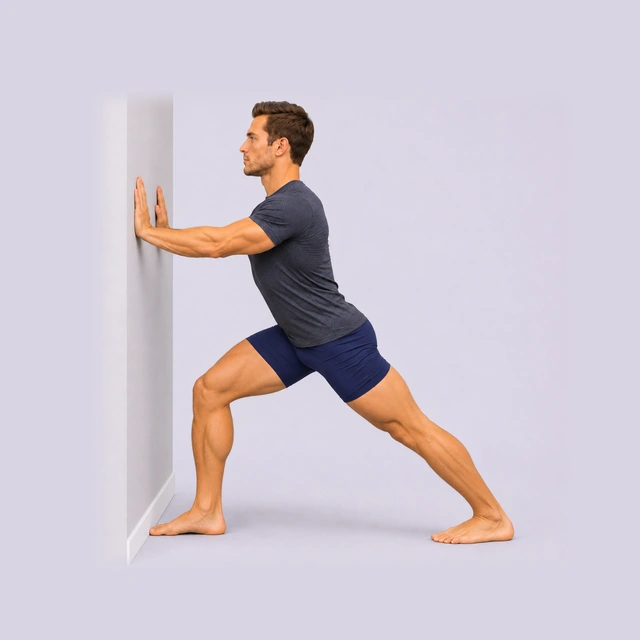
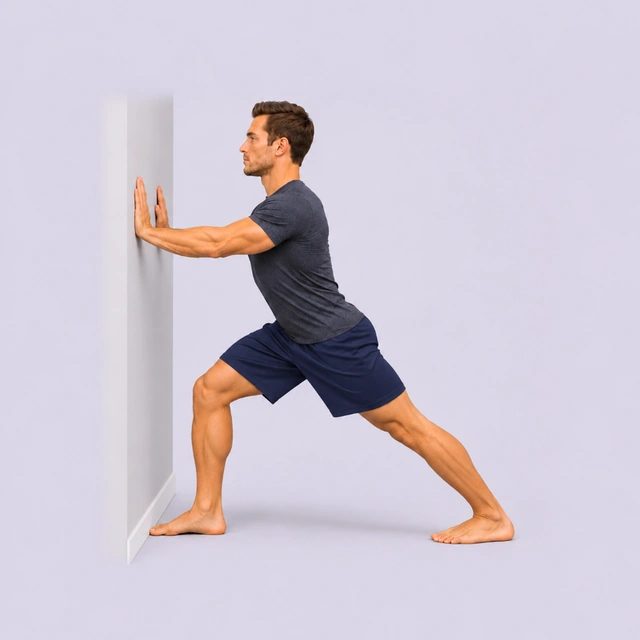
Publish: the man's longer shorts, batch 3 (10 pictures) (5315845ee30a)
Source: meflex-source branch man-shorts-3.

Claude-Session: https://claude.ai/code/session_01VNuq4d9RwdVpz2hhqNG4nu

Changed region(s): [[0.3438, 0.4688, 0.6562, 0.6562], [0.3438, 0.6562, 0.375, 0.6875]]

diff --git a/meflex-site/meflex-site/sw.js b/meflex-site/meflex-site/sw.js
@@ -5,7 +5,7 @@
 // those go to the network exactly as without it. It sends nothing of its own except fetching FILES from the site.
 // It never stores personal data: history, routines, settings and answers live in the page's own storage, not here.
 // A new version waits until the person taps Reload ("A new version is ready"); it never takes over by itself.
-const VERSION = '3eb056d1ebda';
+const VERSION = '5315845ee30a';
 const FILES = ["index.html", "manifest.webmanifest", "apple-touch-icon.png", "icon-192.png", "icon-512.png"];
 // Nov 15 (recorded voice on the website): every recording the page may ask for (voice/manifest.json and voice/<key>.m4a).
 // None is fetched at install (4.2 MB). Each is kept the first time the page fetches it: the list when the Voice or coach
@@ -15,7 +15,7 @@ const VOICE = ["voice/manifest.json", "voice/001278fc.m4a", "voice/0012bbdf.m4a"
 // fetched at install (that could be many megabytes). Each one is kept the first time the page shows it, and the page
 // asks for a routine's player pictures when that routine is opened, so a routine started with a signal still has them
 // with none. They live in their own cache, which survives app updates; only pictures no longer listed are removed.
-const PICS = ["figures/ankledf-192.webp?v=a8f33b0e", "figures/ankledf-640.webp?v=a8f33b0e", "figures/ankledf-960.webp?v=a8f33b0e", "figures/anklerock-192.webp?v=911c5049", "figures/anklerock-640.webp?v=911c5049", "figures/anklerock-960.webp?v=911c5049", "figures/armcircles-192.webp?v=41b57d91", "figures/armcircles-640.webp?v=41b57d91", "figures/armcircles-960.webp?v=41b57d91", "figures/bandadd-192.webp?v=7cb4ad47", "figures/bandadd-640.webp?v=7cb4ad47", "figures/bandadd-960.webp?v=7cb4ad47", "figures/bandcalf-192.webp?v=a96d5053", "figures/bandcalf-640.webp?v=a96d5053", "figures/bandcalf-960.webp?v=a96d5053", "figures/bandchest-192.webp?v=093ec867", "figures/bandchest-640.webp?v=093ec867", "figures/bandchest-960.webp?v=093ec867", "figures/bandcross-192.webp?v=690bf78d", "figures/bandcross-640.webp?v=690bf78d", "figures/bandcross-960.webp?v=690bf78d", "figures/bandham-192.webp?v=cc7fd8df", "figures/bandham-640.webp?v=cc7fd8df", "figures/bandham-960.webp?v=cc7fd8df", "figures/bandlat-192.webp?v=af0c8982", "figures/bandlat-640.webp?v=af0c8982", "figures/bandlat-960.webp?v=af0c8982", "figures/bandquad-192.webp?v=407bae69", "figures/bandquad-640.webp?v=407bae69", "figures/bandquad-960.webp?v=407bae69", "figures/butterfly-192.webp?v=62cdc0e5", "figures/butterfly-640.webp?v=62cdc0e5", "figures/butterfly-960.webp?v=62cdc0e5", "figures/buttkicks-192.webp?v=a66d1809", "figures/buttkicks-640.webp?v=a66d1809", "figures/buttkicks-960.webp?v=a66d1809", "figures/calf-192.webp?v=0a14d5c0", "figures/calf-640.webp?v=0a14d5c0", "figures/calf-960.webp?v=0a14d5c0", "figures/calfdrop-192.webp?v=97c87646", "figures/calfdrop-640.webp?v=97c87646", "figures/calfdrop-960.webp?v=97c87646", "figures/catcow-192.webp?v=0cbc84a2", "figures/catcow-640.webp?v=0cbc84a2", "figures/catcow-960.webp?v=0cbc84a2", "figures/chairfig4-192.webp?v=3156b617", "figures/chairfig4-640.webp?v=3156b617", "figures/chairfig4-960.webp?v=3156b617", "figures/chairham-192.webp?v=79f2fa67", "figures/chairham-640.webp?v=79f2fa67", "figures/chairham-960.webp?v=79f2fa67", "figures/chestclasp-192.webp?v=1909fb8b", "figures/chestclasp-640.webp?v=1909fb8b", "figures/chestclasp-960.webp?v=1909fb8b", "figures/child-192.webp?v=e30eb409", "figures/child-640.webp?v=e30eb409", "figures/child-960.webp?v=e30eb409", "figures/chintuck-192.webp?v=a55b103f", "figures/chintuck-640.webp?v=a55b103f", "figures/chintuck-960.webp?v=a55b103f", "figures/cobra-192.webp?v=3b105fed", "figures/cobra-640.webp?v=3b105fed", "figures/cobra-960.webp?v=3b105fed", "figures/cossack-192.webp?v=6175a924", "figures/cossack-640.webp?v=6175a924", "figures/cossack-960.webp?v=6175a924", "figures/couch-192.webp?v=a2b1502e", "figures/couch-640.webp?v=a2b1502e", "figures/couch-960.webp?v=a2b1502e", "figures/crossbody-192.webp?v=5f496ae8", "figures/crossbody-640.webp?v=5f496ae8", "figures/crossbody-960.webp?v=5f496ae8", "figures/dbfly-192.webp?v=10563170", "figures/dbfly-640.webp?v=10563170", "figures/dbfly-960.webp?v=10563170", "figures/doorway-192.webp?v=d289783c", "figures/doorway-640.webp?v=d289783c", "figures/doorway-960.webp?v=d289783c", "figures/downdog-192.webp?v=3109fa5a", "figures/downdog-640.webp?v=3109fa5a", "figures/downdog-960.webp?v=3109fa5a", "figures/figure4-192.webp?v=75c67c42", "figures/figure4-640.webp?v=75c67c42", "figures/figure4-960.webp?v=75c67c42", "figures/fold-192.webp?v=9a4d92d0", "figures/fold-640.webp?v=9a4d92d0", "figures/fold-960.webp?v=9a4d92d0", "figures/frog-192.webp?v=d23de5f0", "figures/frog-640.webp?v=d23de5f0", "figures/frog-960.webp?v=d23de5f0", "figures/gate-192.webp?v=face0345", "figures/gate-640.webp?v=face0345", "figures/gate-960.webp?v=face0345", "figures/goblet-192.webp?v=47dedac9", "figures/goblet-640.webp?v=47dedac9", "figures/goblet-960.webp?v=47dedac9", "figures/groinhold-192.webp?v=619f54f8", "figures/groinhold-640.webp?v=619f54f8", "figures/groinhold-960.webp?v=619f54f8", "figures/halfsplit-192.webp?v=f27b0572", "figures/halfsplit-640.webp?v=f27b0572", "figures/halfsplit-960.webp?v=f27b0572", "figures/happybaby-192.webp?v=d1ab1006", "figures/happybaby-640.webp?v=d1ab1006", "figures/happybaby-960.webp?v=d1ab1006", "figures/highknees-192.webp?v=dab2adce", "figures/highknees-640.webp?v=dab2adce", "figures/highknees-960.webp?v=dab2adce", "figures/hiplunge-192.webp?v=2f89a04e", "figures/hiplunge-640.webp?v=2f89a04e", "figures/hiplunge-960.webp?v=2f89a04e", "figures/inchworm-192.webp?v=74f7527c", "figures/inchworm-640.webp?v=74f7527c", "figures/inchworm-960.webp?v=74f7527c", "figures/kneeschest-192.webp?v=b5d6dc38", "figures/kneeschest-640.webp?v=b5d6dc38", "figures/kneeschest-960.webp?v=b5d6dc38", "figures/lateral-192.webp?v=25f04159", "figures/lateral-640.webp?v=25f04159", "figures/lateral-960.webp?v=25f04159", "figures/legswing-192.webp?v=d141c625", "figures/legswing-640.webp?v=d141c625", "figures/legswing-960.webp?v=d141c625", "figures/levator-192.webp?v=8760091f", "figures/levator-640.webp?v=8760091f", "figures/levator-960.webp?v=8760091f", "figures/lizard-192.webp?v=0a4f97bd", "figures/lizard-640.webp?v=0a4f97bd", "figures/lizard-960.webp?v=0a4f97bd", "figures/lunge-192.webp?v=25293428", "figures/lunge-640.webp?v=25293428", "figures/lunge-960.webp?v=25293428", "figures/lyingham-192.webp?v=1cb729bc", "figures/lyingham-640.webp?v=1cb729bc", "figures/lyingham-960.webp?v=1cb729bc", "figures/necktilt-192.webp?v=6dc8f687", "figures/necktilt-640.webp?v=6dc8f687", "figures/necktilt-960.webp?v=6dc8f687", "figures/neckturn-192.webp?v=50a8b26d", "figures/neckturn-640.webp?v=50a8b26d", "figures/neckturn-960.webp?v=50a8b26d", "figures/passthrough-192.webp?v=ed8b9ed1", "figures/passthrough-640.webp?v=ed8b9ed1", "figures/passthrough-960.webp?v=ed8b9ed1", "figures/pigeon-192.webp?v=5b82af3b", "figures/pigeon-640.webp?v=5b82af3b", "figures/pigeon-960.webp?v=5b82af3b", "figures/postwall-192.webp?v=fb964c95", "figures/postwall-640.webp?v=fb964c95", "figures/postwall-960.webp?v=fb964c95", "figures/pullover-192.webp?v=e8820e95", "figures/pullover-640.webp?v=e8820e95", "figures/pullover-960.webp?v=e8820e95", "figures/puppy-192.webp?v=8e5dd34e", "figures/puppy-640.webp?v=8e5dd34e", "figures/puppy-960.webp?v=8e5dd34e", "figures/quad-192.webp?v=6250f0f8", "figures/quad-640.webp?v=6250f0f8", "figures/quad-960.webp?v=6250f0f8", "figures/rdlhold-192.webp?v=147b3bbf", "figures/rdlhold-640.webp?v=147b3bbf", "figures/rdlhold-960.webp?v=147b3bbf", "figures/seatedtwist-192.webp?v=c94f4c98", "figures/seatedtwist-640.webp?v=c94f4c98", "figures/seatedtwist-960.webp?v=c94f4c98", "figures/sidebend-192.webp?v=610313c9", "figures/sidebend-640.webp?v=610313c9", "figures/sidebend-960.webp?v=610313c9", "figures/sidequad-192.webp?v=c3d587b5", "figures/sidequad-640.webp?v=c3d587b5", "figures/sidequad-960.webp?v=c3d587b5", "figures/sideswing-192.webp?v=1ba9e48b", "figures/sideswing-640.webp?v=1ba9e48b", "figures/sideswing-960.webp?v=1ba9e48b", "figures/skatestance-192.webp?v=3e680fa9", "figures/skatestance-640.webp?v=3e680fa9", "figures/skatestance-960.webp?v=3e680fa9", "figures/sphinx-192.webp?v=8349a4d2", "figures/sphinx-640.webp?v=8349a4d2", "figures/sphinx-960.webp?v=8349a4d2", "figures/standfold-192.webp?v=d3455a11", "figures/standfold-640.webp?v=d3455a11", "figures/standfold-960.webp?v=d3455a11", "figures/suitcase-192.webp?v=faeb34cb", "figures/suitcase-640.webp?v=faeb34cb", "figures/suitcase-960.webp?v=faeb34cb", "figures/thread-192.webp?v=04dc8a99", "figures/thread-640.webp?v=04dc8a99", "figures/thread-960.webp?v=04dc8a99", "figures/torsotwist-192.webp?v=81bb2d2f", "figures/torsotwist-640.webp?v=81bb2d2f", "figures/torsotwist-960.webp?v=81bb2d2f", "figures/twist-192.webp?v=183f0d8f", "figures/twist-640.webp?v=183f0d8f", "figures/twist-960.webp?v=183f0d8f", "figures/w-ankledf-192.webp?v=f0af4e86", "figures/w-ankledf-640.webp?v=f0af4e86", "figures/w-ankledf-960.webp?v=f0af4e86", "figures/w-anklerock-192.webp?v=bec78cbe", "figures/w-anklerock-640.webp?v=bec78cbe", "figures/w-anklerock-960.webp?v=bec78cbe", "figures/w-armcircles-192.webp?v=20e1b17d", "figures/w-armcircles-640.webp?v=20e1b17d", "figures/w-armcircles-960.webp?v=20e1b17d", "figures/w-bandadd-192.webp?v=37af3562", "figures/w-bandadd-640.webp?v=37af3562", "figures/w-bandadd-960.webp?v=37af3562", "figures/w-bandcalf-192.webp?v=a7ca095b", "figures/w-bandcalf-640.webp?v=a7ca095b", "figures/w-bandcalf-960.webp?v=a7ca095b", "figures/w-bandchest-192.webp?v=b4c47cae", "figures/w-bandchest-640.webp?v=b4c47cae", "figures/w-bandchest-960.webp?v=b4c47cae", "figures/w-bandcross-192.webp?v=0378abb0", "figures/w-bandcross-640.webp?v=0378abb0", "figures/w-bandcross-960.webp?v=0378abb0", "figures/w-bandham-192.webp?v=69ea0463", "figures/w-bandham-640.webp?v=69ea0463", "figures/w-bandham-960.webp?v=69ea0463", "figures/w-bandlat-192.webp?v=32398a04", "figures/w-bandlat-640.webp?v=32398a04", "figures/w-bandlat-960.webp?v=32398a04", "figures/w-bandquad-192.webp?v=55222718", "figures/w-bandquad-640.webp?v=55222718", "figures/w-bandquad-960.webp?v=55222718", "figures/w-butterfly-192.webp?v=3771c93c", "figures/w-butterfly-640.webp?v=3771c93c", "figures/w-butterfly-960.webp?v=3771c93c", "figures/w-buttkicks-192.webp?v=002ca8e3", "figures/w-buttkicks-640.webp?v=002ca8e3", "figures/w-buttkicks-960.webp?v=002ca8e3", "figures/w-calf-192.webp?v=bf30e4cb", "figures/w-calf-640.webp?v=bf30e4cb", "figures/w-calf-960.webp?v=bf30e4cb", "figures/w-calfdrop-192.webp?v=f9c8a021", "figures/w-calfdrop-640.webp?v=f9c8a021", "figures/w-calfdrop-960.webp?v=f9c8a021", "figures/w-catcow-192.webp?v=0d9bf87a", "figures/w-catcow-640.webp?v=0d9bf87a", "figures/w-catcow-960.webp?v=0d9bf87a", "figures/w-chairfig4-192.webp?v=e9703627", "figures/w-chairfig4-640.webp?v=e9703627", "figures/w-chairfig4-960.webp?v=e9703627", "figures/w-chairham-192.webp?v=600c5e2c", "figures/w-chairham-640.webp?v=600c5e2c", "figures/w-chairham-960.webp?v=600c5e2c", "figures/w-chestclasp-192.webp?v=4af09d9a", "figures/w-chestclasp-640.webp?v=4af09d9a", "figures/w-chestclasp-960.webp?v=4af09d9a", "figures/w-child-192.webp?v=855e0673", "figures/w-child-640.webp?v=855e0673", "figures/w-child-960.webp?v=855e0673", "figures/w-chintuck-192.webp?v=8f234c93", "figures/w-chintuck-640.webp?v=8f234c93", "figures/w-chintuck-960.webp?v=8f234c93", "figures/w-cobra-192.webp?v=7be58832", "figures/w-cobra-640.webp?v=7be58832", "figures/w-cobra-960.webp?v=7be58832", "figures/w-cossack-192.webp?v=beada11e", "figures/w-cossack-640.webp?v=beada11e", "figures/w-cossack-960.webp?v=beada11e", "figures/w-couch-192.webp?v=6c2f0b9c", "figures/w-couch-640.webp?v=6c2f0b9c", "figures/w-couch-960.webp?v=6c2f0b9c", "figures/w-crossbody-192.webp?v=d6de1afc", "figures/w-crossbody-640.webp?v=d6de1afc", "figures/w-crossbody-960.webp?v=d6de1afc", "figures/w-dbfly-192.webp?v=ac888e12", "figures/w-dbfly-640.webp?v=ac888e12", "figures/w-dbfly-960.webp?v=ac888e12", "figures/w-doorway-192.webp?v=99234351", "figures/w-doorway-640.webp?v=99234351", "figures/w-doorway-960.webp?v=99234351", "figures/w-downdog-192.webp?v=1d1f8be1", "figures/w-downdog-640.webp?v=1d1f8be1", "figures/w-downdog-960.webp?v=1d1f8be1", "figures/w-figure4-192.webp?v=afebc674", "figures/w-figure4-640.webp?v=afebc674", "figures/w-figure4-960.webp?v=afebc674", "figures/w-fold-192.webp?v=656f481f", "figures/w-fold-640.webp?v=656f481f", "figures/w-fold-960.webp?v=656f481f", "figures/w-frog-192.webp?v=f451a50e", "figures/w-frog-640.webp?v=f451a50e", "figures/w-frog-960.webp?v=f451a50e", "figures/w-gate-192.webp?v=549ddd89", "figures/w-gate-640.webp?v=549ddd89", "figures/w-gate-960.webp?v=549ddd89", "figures/w-goblet-192.webp?v=537b4583", "figures/w-goblet-640.webp?v=537b4583", "figures/w-goblet-960.webp?v=537b4583", "figures/w-groinhold-192.webp?v=cb01b3b1", "figures/w-groinhold-640.webp?v=cb01b3b1", "figures/w-groinhold-960.webp?v=cb01b3b1", "figures/w-halfsplit-192.webp?v=20662c61", "figures/w-halfsplit-640.webp?v=20662c61", "figures/w-halfsplit-960.webp?v=20662c61", "figures/w-happybaby-192.webp?v=0658ab32", "figures/w-happybaby-640.webp?v=0658ab32", "figures/w-happybaby-960.webp?v=0658ab32", "figures/w-highknees-192.webp?v=bdc00bbb", "figures/w-highknees-640.webp?v=bdc00bbb", "figures/w-highknees-960.webp?v=bdc00bbb", "figures/w-hiplunge-192.webp?v=c917d115", "figures/w-hiplunge-640.webp?v=c917d115", "figures/w-hiplunge-960.webp?v=c917d115", "figures/w-inchworm-192.webp?v=577c28df", "figures/w-inchworm-640.webp?v=577c28df", "figures/w-inchworm-960.webp?v=577c28df", "figures/w-kneeschest-192.webp?v=743a6dfa", "figures/w-kneeschest-640.webp?v=743a6dfa", "figures/w-kneeschest-960.webp?v=743a6dfa", "figures/w-lateral-192.webp?v=3cb2a7d3", "figures/w-lateral-640.webp?v=3cb2a7d3", "figures/w-lateral-960.webp?v=3cb2a7d3", "figures/w-legswing-192.webp?v=2467a979", "figures/w-legswing-640.webp?v=2467a979", "figures/w-legswing-960.webp?v=2467a979", "figures/w-levator-192.webp?v=d166c57a", "figures/w-levator-640.webp?v=d166c57a", "figures/w-levator-960.webp?v=d166c57a", "figures/w-lizard-192.webp?v=7cc08ab2", "figures/w-lizard-640.webp?v=7cc08ab2", "figures/w-lizard-960.webp?v=7cc08ab2", "figures/w-lunge-192.webp?v=63866dc2", "figures/w-lunge-640.webp?v=63866dc2", "figures/w-lunge-960.webp?v=63866dc2", "figures/w-lyingham-192.webp?v=fe759cfe", "figures/w-lyingham-640.webp?v=fe759cfe", "figures/w-lyingham-960.webp?v=fe759cfe", "figures/w-necktilt-192.webp?v=22924b2f", "figures/w-necktilt-640.webp?v=22924b2f", "figures/w-necktilt-960.webp?v=22924b2f", "figures/w-neckturn-192.webp?v=5af43185", "figures/w-neckturn-640.webp?v=5af43185", "figures/w-neckturn-960.webp?v=5af43185", "figures/w-passthrough-192.webp?v=10bfce31", "figures/w-passthrough-640.webp?v=10bfce31", "figures/w-passthrough-960.webp?v=10bfce31", "figures/w-pigeon-192.webp?v=a89b8f65", "figures/w-pigeon-640.webp?v=a89b8f65", "figures/w-pigeon-960.webp?v=a89b8f65", "figures/w-postwall-192.webp?v=b8e7a79c", "figures/w-postwall-640.webp?v=b8e7a79c", "figures/w-postwall-960.webp?v=b8e7a79c", "figures/w-pullover-192.webp?v=15239280", "figures/w-pullover-640.webp?v=15239280", "figures/w-pullover-960.webp?v=15239280", "figures/w-puppy-192.webp?v=058ca523", "figures/w-puppy-640.webp?v=058ca523", "figures/w-puppy-960.webp?v=058ca523", "figures/w-quad-192.webp?v=1b58687d", "figures/w-quad-640.webp?v=1b58687d", "figures/w-quad-960.webp?v=1b58687d", "figures/w-rdlhold-192.webp?v=06b1b1c0", "figures/w-rdlhold-640.webp?v=06b1b1c0", "figures/w-rdlhold-960.webp?v=06b1b1c0", "figures/w-seatedtwist-192.webp?v=09e1504d", "figures/w-seatedtwist-640.webp?v=09e1504d", "figures/w-seatedtwist-960.webp?v=09e1504d", "figures/w-sidebend-192.webp?v=6f735ad6", "figures/w-sidebend-640.webp?v=6f735ad6", "figures/w-sidebend-960.webp?v=6f735ad6", "figures/w-sidequad-192.webp?v=5a2dfb1a", "figures/w-sidequad-640.webp?v=5a2dfb1a", "figures/w-sidequad-960.webp?v=5a2dfb1a", "figures/w-sideswing-192.webp?v=484561d0", "figures/w-sideswing-640.webp?v=484561d0", "figures/w-sideswing-960.webp?v=484561d0", "figures/w-skatestance-192.webp?v=82716257", "figures/w-skatestance-640.webp?v=82716257", "figures/w-skatestance-960.webp?v=82716257", "figures/w-sphinx-192.webp?v=4fdcb7fe", "figures/w-sphinx-640.webp?v=4fdcb7fe", "figures/w-sphinx-960.webp?v=4fdcb7fe", "figures/w-standfold-192.webp?v=b34553d0", "figures/w-standfold-640.webp?v=b34553d0", "figures/w-standfold-960.webp?v=b34553d0", "figures/w-suitcase-192.webp?v=45e68e4c", "figures/w-suitcase-640.webp?v=45e68e4c", "figures/w-suitcase-960.webp?v=45e68e4c", "figures/w-thread-192.webp?v=d2486033", "figures/w-thread-640.webp?v=d2486033", "figures/w-thread-960.webp?v=d2486033", "figures/w-torsotwist-192.webp?v=71170482", "figures/w-torsotwist-640.webp?v=71170482", "figures/w-torsotwist-960.webp?v=71170482", "figures/w-twist-192.webp?v=f2c23353", "figures/w-twist-640.webp?v=f2c23353", "figures/w-twist-960.webp?v=f2c23353", "figures/w-walklunge-192.webp?v=7d9e101b", "figures/w-walklunge-640.webp?v=7d9e101b", "figures/w-walklunge-960.webp?v=7d9e101b", "figures/walklunge-192.webp?v=58b611e7", "figures/walklunge-640.webp?v=58b611e7", "figures/walklunge-960.webp?v=58b611e7", "figures/ankledf-loop.mp4?v=707d28f1", "figures/anklerock-loop.mp4?v=8804cf1b", "figures/buttkicks-loop.mp4?v=165dfc48", "figures/groinhold-loop.mp4?v=7c9904ea", "figures/highknees-loop.mp4?v=8e58819a", "figures/hiplunge-loop.mp4?v=3236b681", "figures/lateral-loop.mp4?v=4dd7ccbd", "figures/lunge-loop.mp4?v=5fb29044", "figures/quad-loop.mp4?v=55eefc3f", "figures/sideswing-loop.mp4?v=539e2238", "figures/skatestance-loop.mp4?v=0d598b18", "figures/w-ankledf-loop.mp4?v=964d3d50", "figures/w-anklerock-loop.mp4?v=f6f48938", "figures/w-buttkicks-loop.mp4?v=8114c715", "figures/w-highknees-loop.mp4?v=5914af7b", "figures/w-lunge-loop.mp4?v=39ee6efd", "figures/w-quad-loop.mp4?v=70738fff", "figures/w-sideswing-loop.mp4?v=0b144005", "figures/w-skatestance-loop.mp4?v=353efbf1"];
+const PICS = ["figures/ankledf-192.webp?v=a8f33b0e", "figures/ankledf-640.webp?v=a8f33b0e", "figures/ankledf-960.webp?v=a8f33b0e", "figures/anklerock-192.webp?v=911c5049", "figures/anklerock-640.webp?v=911c5049", "figures/anklerock-960.webp?v=911c5049", "figures/armcircles-192.webp?v=41b57d91", "figures/armcircles-640.webp?v=41b57d91", "figures/armcircles-960.webp?v=41b57d91", "figures/bandadd-192.webp?v=7cb4ad47", "figures/bandadd-640.webp?v=7cb4ad47", "figures/bandadd-960.webp?v=7cb4ad47", "figures/bandcalf-192.webp?v=a96d5053", "figures/bandcalf-640.webp?v=a96d5053", "figures/bandcalf-960.webp?v=a96d5053", "figures/bandchest-192.webp?v=093ec867", "figures/bandchest-640.webp?v=093ec867", "figures/bandchest-960.webp?v=093ec867", "figures/bandcross-192.webp?v=690bf78d", "figures/bandcross-640.webp?v=690bf78d", "figures/bandcross-960.webp?v=690bf78d", "figures/bandham-192.webp?v=cc7fd8df", "figures/bandham-640.webp?v=cc7fd8df", "figures/bandham-960.webp?v=cc7fd8df", "figures/bandlat-192.webp?v=af0c8982", "figures/bandlat-640.webp?v=af0c8982", "figures/bandlat-960.webp?v=af0c8982", "figures/bandquad-192.webp?v=407bae69", "figures/bandquad-640.webp?v=407bae69", "figures/bandquad-960.webp?v=407bae69", "figures/butterfly-192.webp?v=62cdc0e5", "figures/butterfly-640.webp?v=62cdc0e5", "figures/butterfly-960.webp?v=62cdc0e5", "figures/buttkicks-192.webp?v=a66d1809", "figures/buttkicks-640.webp?v=a66d1809", "figures/buttkicks-960.webp?v=a66d1809", "figures/calf-192.webp?v=58c3f519", "figures/calf-640.webp?v=58c3f519", "figures/calf-960.webp?v=58c3f519", "figures/calfdrop-192.webp?v=97c87646", "figures/calfdrop-640.webp?v=97c87646", "figures/calfdrop-960.webp?v=97c87646", "figures/catcow-192.webp?v=0cbc84a2", "figures/catcow-640.webp?v=0cbc84a2", "figures/catcow-960.webp?v=0cbc84a2", "figures/chairfig4-192.webp?v=3156b617", "figures/chairfig4-640.webp?v=3156b617", "figures/chairfig4-960.webp?v=3156b617", "figures/chairham-192.webp?v=79f2fa67", "figures/chairham-640.webp?v=79f2fa67", "figures/chairham-960.webp?v=79f2fa67", "figures/chestclasp-192.webp?v=1909fb8b", "figures/chestclasp-640.webp?v=1909fb8b", "figures/chestclasp-960.webp?v=1909fb8b", "figures/child-192.webp?v=1ab33262", "figures/child-640.webp?v=1ab33262", "figures/child-960.webp?v=1ab33262", "figures/chintuck-192.webp?v=a55b103f", "figures/chintuck-640.webp?v=a55b103f", "figures/chintuck-960.webp?v=a55b103f", "figures/cobra-192.webp?v=3b105fed", "figures/cobra-640.webp?v=3b105fed", "figures/cobra-960.webp?v=3b105fed", "figures/cossack-192.webp?v=6175a924", "figures/cossack-640.webp?v=6175a924", "figures/cossack-960.webp?v=6175a924", "figures/couch-192.webp?v=a2b1502e", "figures/couch-640.webp?v=a2b1502e", "figures/couch-960.webp?v=a2b1502e", "figures/crossbody-192.webp?v=ed70a094", "figures/crossbody-640.webp?v=ed70a094", "figures/crossbody-960.webp?v=ed70a094", "figures/dbfly-192.webp?v=10563170", "figures/dbfly-640.webp?v=10563170", "figures/dbfly-960.webp?v=10563170", "figures/doorway-192.webp?v=d289783c", "figures/doorway-640.webp?v=d289783c", "figures/doorway-960.webp?v=d289783c", "figures/downdog-192.webp?v=3109fa5a", "figures/downdog-640.webp?v=3109fa5a", "figures/downdog-960.webp?v=3109fa5a", "figures/figure4-192.webp?v=e51052dc", "figures/figure4-640.webp?v=e51052dc", "figures/figure4-960.webp?v=e51052dc", "figures/fold-192.webp?v=d67a61f0", "figures/fold-640.webp?v=d67a61f0", "figures/fold-960.webp?v=d67a61f0", "figures/frog-192.webp?v=d23de5f0", "figures/frog-640.webp?v=d23de5f0", "figures/frog-960.webp?v=d23de5f0", "figures/gate-192.webp?v=face0345", "figures/gate-640.webp?v=face0345", "figures/gate-960.webp?v=face0345", "figures/goblet-192.webp?v=47dedac9", "figures/goblet-640.webp?v=47dedac9", "figures/goblet-960.webp?v=47dedac9", "figures/groinhold-192.webp?v=619f54f8", "figures/groinhold-640.webp?v=619f54f8", "figures/groinhold-960.webp?v=619f54f8", "figures/halfsplit-192.webp?v=f27b0572", "figures/halfsplit-640.webp?v=f27b0572", "figures/halfsplit-960.webp?v=f27b0572", "figures/happybaby-192.webp?v=d1ab1006", "figures/happybaby-640.webp?v=d1ab1006", "figures/happybaby-960.webp?v=d1ab1006", "figures/highknees-192.webp?v=dab2adce", "figures/highknees-640.webp?v=dab2adce", "figures/highknees-960.webp?v=dab2adce", "figures/hiplunge-192.webp?v=2f89a04e", "figures/hiplunge-640.webp?v=2f89a04e", "figures/hiplunge-960.webp?v=2f89a04e", "figures/inchworm-192.webp?v=74f7527c", "figures/inchworm-640.webp?v=74f7527c", "figures/inchworm-960.webp?v=74f7527c", "figures/kneeschest-192.webp?v=7e37394b", "figures/kneeschest-640.webp?v=7e37394b", "figures/kneeschest-960.webp?v=7e37394b", "figures/lateral-192.webp?v=25f04159", "figures/lateral-640.webp?v=25f04159", "figures/lateral-960.webp?v=25f04159", "figures/legswing-192.webp?v=d141c625", "figures/legswing-640.webp?v=d141c625", "figures/legswing-960.webp?v=d141c625", "figures/levator-192.webp?v=8760091f", "figures/levator-640.webp?v=8760091f", "figures/levator-960.webp?v=8760091f", "figures/lizard-192.webp?v=0a4f97bd", "figures/lizard-640.webp?v=0a4f97bd", "figures/lizard-960.webp?v=0a4f97bd", "figures/lunge-192.webp?v=25293428", "figures/lunge-640.webp?v=25293428", "figures/lunge-960.webp?v=25293428", "figures/lyingham-192.webp?v=3e88dad7", "figures/lyingham-640.webp?v=3e88dad7", "figures/lyingham-960.webp?v=3e88dad7", "figures/necktilt-192.webp?v=6dc8f687", "figures/necktilt-640.webp?v=6dc8f687", "figures/necktilt-960.webp?v=6dc8f687", "figures/neckturn-192.webp?v=50a8b26d", "figures/neckturn-640.webp?v=50a8b26d", "figures/neckturn-960.webp?v=50a8b26d", "figures/passthrough-192.webp?v=ed8b9ed1", "figures/passthrough-640.webp?v=ed8b9ed1", "figures/passthrough-960.webp?v=ed8b9ed1", "figures/pigeon-192.webp?v=5b82af3b", "figures/pigeon-640.webp?v=5b82af3b", "figures/pigeon-960.webp?v=5b82af3b", "figures/postwall-192.webp?v=fb964c95", "figures/postwall-640.webp?v=fb964c95", "figures/postwall-960.webp?v=fb964c95", "figures/pullover-192.webp?v=e8820e95", "figures/pullover-640.webp?v=e8820e95", "figures/pullover-960.webp?v=e8820e95", "figures/puppy-192.webp?v=8e5dd34e", "figures/puppy-640.webp?v=8e5dd34e", "figures/puppy-960.webp?v=8e5dd34e", "figures/quad-192.webp?v=6250f0f8", "figures/quad-640.webp?v=6250f0f8", "figures/quad-960.webp?v=6250f0f8", "figures/rdlhold-192.webp?v=147b3bbf", "figures/rdlhold-640.webp?v=147b3bbf", "figures/rdlhold-960.webp?v=147b3bbf", "figures/seatedtwist-192.webp?v=d9399c61", "figures/seatedtwist-640.webp?v=d9399c61", "figures/seatedtwist-960.webp?v=d9399c61", "figures/sidebend-192.webp?v=610313c9", "figures/sidebend-640.webp?v=610313c9", "figures/sidebend-960.webp?v=610313c9", "figures/sidequad-192.webp?v=c3d587b5", "figures/sidequad-640.webp?v=c3d587b5", "figures/sidequad-960.webp?v=c3d587b5", "figures/sideswing-192.webp?v=1ba9e48b", "figures/sideswing-640.webp?v=1ba9e48b", "figures/sideswing-960.webp?v=1ba9e48b", "figures/skatestance-192.webp?v=3e680fa9", "figures/skatestance-640.webp?v=3e680fa9", "figures/skatestance-960.webp?v=3e680fa9", "figures/sphinx-192.webp?v=8349a4d2", "figures/sphinx-640.webp?v=8349a4d2", "figures/sphinx-960.webp?v=8349a4d2", "figures/standfold-192.webp?v=72a94018", "figures/standfold-640.webp?v=72a94018", "figures/standfold-960.webp?v=72a94018", "figures/suitcase-192.webp?v=faeb34cb", "figures/suitcase-640.webp?v=faeb34cb", "figures/suitcase-960.webp?v=faeb34cb", "figures/thread-192.webp?v=04dc8a99", "figures/thread-640.webp?v=04dc8a99", "figures/thread-960.webp?v=04dc8a99", "figures/torsotwist-192.webp?v=81bb2d2f", "figures/torsotwist-640.webp?v=81bb2d2f", "figures/torsotwist-960.webp?v=81bb2d2f", "figures/twist-192.webp?v=fd769304", "figures/twist-640.webp?v=fd769304", "figures/twist-960.webp?v=fd769304", "figures/w-ankledf-192.webp?v=f0af4e86", "figures/w-ankledf-640.webp?v=f0af4e86", "figures/w-ankledf-960.webp?v=f0af4e86", "figures/w-anklerock-192.webp?v=bec78cbe", "figures/w-anklerock-640.webp?v=bec78cbe", "figures/w-anklerock-960.webp?v=bec78cbe", "figures/w-armcircles-192.webp?v=20e1b17d", "figures/w-armcircles-640.webp?v=20e1b17d", "figures/w-armcircles-960.webp?v=20e1b17d", "figures/w-bandadd-192.webp?v=37af3562", "figures/w-bandadd-640.webp?v=37af3562", "figures/w-bandadd-960.webp?v=37af3562", "figures/w-bandcalf-192.webp?v=a7ca095b", "figures/w-bandcalf-640.webp?v=a7ca095b", "figures/w-bandcalf-960.webp?v=a7ca095b", "figures/w-bandchest-192.webp?v=b4c47cae", "figures/w-bandchest-640.webp?v=b4c47cae", "figures/w-bandchest-960.webp?v=b4c47cae", "figures/w-bandcross-192.webp?v=0378abb0", "figures/w-bandcross-640.webp?v=0378abb0", "figures/w-bandcross-960.webp?v=0378abb0", "figures/w-bandham-192.webp?v=69ea0463", "figures/w-bandham-640.webp?v=69ea0463", "figures/w-bandham-960.webp?v=69ea0463", "figures/w-bandlat-192.webp?v=32398a04", "figures/w-bandlat-640.webp?v=32398a04", "figures/w-bandlat-960.webp?v=32398a04", "figures/w-bandquad-192.webp?v=55222718", "figures/w-bandquad-640.webp?v=55222718", "figures/w-bandquad-960.webp?v=55222718", "figures/w-butterfly-192.webp?v=3771c93c", "figures/w-butterfly-640.webp?v=3771c93c", "figures/w-butterfly-960.webp?v=3771c93c", "figures/w-buttkicks-192.webp?v=002ca8e3", "figures/w-buttkicks-640.webp?v=002ca8e3", "figures/w-buttkicks-960.webp?v=002ca8e3", "figures/w-calf-192.webp?v=bf30e4cb", "figures/w-calf-640.webp?v=bf30e4cb", "figures/w-calf-960.webp?v=bf30e4cb", "figures/w-calfdrop-192.webp?v=f9c8a021", "figures/w-calfdrop-640.webp?v=f9c8a021", "figures/w-calfdrop-960.webp?v=f9c8a021", "figures/w-catcow-192.webp?v=0d9bf87a", "figures/w-catcow-640.webp?v=0d9bf87a", "figures/w-catcow-960.webp?v=0d9bf87a", "figures/w-chairfig4-192.webp?v=e9703627", "figures/w-chairfig4-640.webp?v=e9703627", "figures/w-chairfig4-960.webp?v=e9703627", "figures/w-chairham-192.webp?v=600c5e2c", "figures/w-chairham-640.webp?v=600c5e2c", "figures/w-chairham-960.webp?v=600c5e2c", "figures/w-chestclasp-192.webp?v=4af09d9a", "figures/w-chestclasp-640.webp?v=4af09d9a", "figures/w-chestclasp-960.webp?v=4af09d9a", "figures/w-child-192.webp?v=855e0673", "figures/w-child-640.webp?v=855e0673", "figures/w-child-960.webp?v=855e0673", "figures/w-chintuck-192.webp?v=8f234c93", "figures/w-chintuck-640.webp?v=8f234c93", "figures/w-chintuck-960.webp?v=8f234c93", "figures/w-cobra-192.webp?v=7be58832", "figures/w-cobra-640.webp?v=7be58832", "figures/w-cobra-960.webp?v=7be58832", "figures/w-cossack-192.webp?v=beada11e", "figures/w-cossack-640.webp?v=beada11e", "figures/w-cossack-960.webp?v=beada11e", "figures/w-couch-192.webp?v=6c2f0b9c", "figures/w-couch-640.webp?v=6c2f0b9c", "figures/w-couch-960.webp?v=6c2f0b9c", "figures/w-crossbody-192.webp?v=d6de1afc", "figures/w-crossbody-640.webp?v=d6de1afc", "figures/w-crossbody-960.webp?v=d6de1afc", "figures/w-dbfly-192.webp?v=ac888e12", "figures/w-dbfly-640.webp?v=ac888e12", "figures/w-dbfly-960.webp?v=ac888e12", "figures/w-doorway-192.webp?v=99234351", "figures/w-doorway-640.webp?v=99234351", "figures/w-doorway-960.webp?v=99234351", "figures/w-downdog-192.webp?v=1d1f8be1", "figures/w-downdog-640.webp?v=1d1f8be1", "figures/w-downdog-960.webp?v=1d1f8be1", "figures/w-figure4-192.webp?v=afebc674", "figures/w-figure4-640.webp?v=afebc674", "figures/w-figure4-960.webp?v=afebc674", "figures/w-fold-192.webp?v=656f481f", "figures/w-fold-640.webp?v=656f481f", "figures/w-fold-960.webp?v=656f481f", "figures/w-frog-192.webp?v=f451a50e", "figures/w-frog-640.webp?v=f451a50e", "figures/w-frog-960.webp?v=f451a50e", "figures/w-gate-192.webp?v=549ddd89", "figures/w-gate-640.webp?v=549ddd89", "figures/w-gate-960.webp?v=549ddd89", "figures/w-goblet-192.webp?v=537b4583", "figures/w-goblet-640.webp?v=537b4583", "figures/w-goblet-960.webp?v=537b4583", "figures/w-groinhold-192.webp?v=cb01b3b1", "figures/w-groinhold-640.webp?v=cb01b3b1", "figures/w-groinhold-960.webp?v=cb01b3b1", "figures/w-halfsplit-192.webp?v=20662c61", "figures/w-halfsplit-640.webp?v=20662c61", "figures/w-halfsplit-960.webp?v=20662c61", "figures/w-happybaby-192.webp?v=0658ab32", "figures/w-happybaby-640.webp?v=0658ab32", "figures/w-happybaby-960.webp?v=0658ab32", "figures/w-highknees-192.webp?v=bdc00bbb", "figures/w-highknees-640.webp?v=bdc00bbb", "figures/w-highknees-960.webp?v=bdc00bbb", "figures/w-hiplunge-192.webp?v=c917d115", "figures/w-hiplunge-640.webp?v=c917d115", "figures/w-hiplunge-960.webp?v=c917d115", "figures/w-inchworm-192.webp?v=577c28df", "figures/w-inchworm-640.webp?v=577c28df", "figures/w-inchworm-960.webp?v=577c28df", "figures/w-kneeschest-192.webp?v=743a6dfa", "figures/w-kneeschest-640.webp?v=743a6dfa", "figures/w-kneeschest-960.webp?v=743a6dfa", "figures/w-lateral-192.webp?v=3cb2a7d3", "figures/w-lateral-640.webp?v=3cb2a7d3", "figures/w-lateral-960.webp?v=3cb2a7d3", "figures/w-legswing-192.webp?v=2467a979", "figures/w-legswing-640.webp?v=2467a979", "figures/w-legswing-960.webp?v=2467a979", "figures/w-levator-192.webp?v=d166c57a", "figures/w-levator-640.webp?v=d166c57a", "figures/w-levator-960.webp?v=d166c57a", "figures/w-lizard-192.webp?v=7cc08ab2", "figures/w-lizard-640.webp?v=7cc08ab2", "figures/w-lizard-960.webp?v=7cc08ab2", "figures/w-lunge-192.webp?v=63866dc2", "figures/w-lunge-640.webp?v=63866dc2", "figures/w-lunge-960.webp?v=63866dc2", "figures/w-lyingham-192.webp?v=fe759cfe", "figures/w-lyingham-640.webp?v=fe759cfe", "figures/w-lyingham-960.webp?v=fe759cfe", "figures/w-necktilt-192.webp?v=22924b2f", "figures/w-necktilt-640.webp?v=22924b2f", "figures/w-necktilt-960.webp?v=22924b2f", "figures/w-neckturn-192.webp?v=5af43185", "figures/w-neckturn-640.webp?v=5af43185", "figures/w-neckturn-960.webp?v=5af43185", "figures/w-passthrough-192.webp?v=10bfce31", "figures/w-passthrough-640.webp?v=10bfce31", "figures/w-passthrough-960.webp?v=10bfce31", "figures/w-pigeon-192.webp?v=a89b8f65", "figures/w-pigeon-640.webp?v=a89b8f65", "figures/w-pigeon-960.webp?v=a89b8f65", "figures/w-postwall-192.webp?v=b8e7a79c", "figures/w-postwall-640.webp?v=b8e7a79c", "figures/w-postwall-960.webp?v=b8e7a79c", "figures/w-pullover-192.webp?v=15239280", "figures/w-pullover-640.webp?v=15239280", "figures/w-pullover-960.webp?v=15239280", "figures/w-puppy-192.webp?v=058ca523", "figures/w-puppy-640.webp?v=058ca523", "figures/w-puppy-960.webp?v=058ca523", "figures/w-quad-192.webp?v=1b58687d", "figures/w-quad-640.webp?v=1b58687d", "figures/w-quad-960.webp?v=1b58687d", "figures/w-rdlhold-192.webp?v=06b1b1c0", "figures/w-rdlhold-640.webp?v=06b1b1c0", "figures/w-rdlhold-960.webp?v=06b1b1c0", "figures/w-seatedtwist-192.webp?v=09e1504d", "figures/w-seatedtwist-640.webp?v=09e1504d", "figures/w-seatedtwist-960.webp?v=09e1504d", "figures/w-sidebend-192.webp?v=6f735ad6", "figures/w-sidebend-640.webp?v=6f735ad6", "figures/w-sidebend-960.webp?v=6f735ad6", "figures/w-sidequad-192.webp?v=5a2dfb1a", "figures/w-sidequad-640.webp?v=5a2dfb1a", "figures/w-sidequad-960.webp?v=5a2dfb1a", "figures/w-sideswing-192.webp?v=484561d0", "figures/w-sideswing-640.webp?v=484561d0", "figures/w-sideswing-960.webp?v=484561d0", "figures/w-skatestance-192.webp?v=82716257", "figures/w-skatestance-640.webp?v=82716257", "figures/w-skatestance-960.webp?v=82716257", "figures/w-sphinx-192.webp?v=4fdcb7fe", "figures/w-sphinx-640.webp?v=4fdcb7fe", "figures/w-sphinx-960.webp?v=4fdcb7fe", "figures/w-standfold-192.webp?v=b34553d0", "figures/w-standfold-640.webp?v=b34553d0", "figures/w-standfold-960.webp?v=b34553d0", "figures/w-suitcase-192.webp?v=45e68e4c", "figures/w-suitcase-640.webp?v=45e68e4c", "figures/w-suitcase-960.webp?v=45e68e4c", "figures/w-thread-192.webp?v=d2486033", "figures/w-thread-640.webp?v=d2486033", "figures/w-thread-960.webp?v=d2486033", "figures/w-torsotwist-192.webp?v=71170482", "figures/w-torsotwist-640.webp?v=71170482", "figures/w-torsotwist-960.webp?v=71170482", "figures/w-twist-192.webp?v=f2c23353", "figures/w-twist-640.webp?v=f2c23353", "figures/w-twist-960.webp?v=f2c23353", "figures/w-walklunge-192.webp?v=7d9e101b", "figures/w-walklunge-640.webp?v=7d9e101b", "figures/w-walklunge-960.webp?v=7d9e101b", "figures/walklunge-192.webp?v=58b611e7", "figures/walklunge-640.webp?v=58b611e7", "figures/walklunge-960.webp?v=58b611e7", "figures/ankledf-loop.mp4?v=707d28f1", "figures/anklerock-loop.mp4?v=8804cf1b", "figures/buttkicks-loop.mp4?v=165dfc48", "figures/groinhold-loop.mp4?v=7c9904ea", "figures/highknees-loop.mp4?v=8e58819a", "figures/hiplunge-loop.mp4?v=3236b681", "figures/lateral-loop.mp4?v=4dd7ccbd", "figures/lunge-loop.mp4?v=5fb29044", "figures/quad-loop.mp4?v=55eefc3f", "figures/sideswing-loop.mp4?v=539e2238", "figures/skatestance-loop.mp4?v=0d598b18", "figures/w-ankledf-loop.mp4?v=964d3d50", "figures/w-anklerock-loop.mp4?v=f6f48938", "figures/w-buttkicks-loop.mp4?v=8114c715", "figures/w-highknees-loop.mp4?v=5914af7b", "figures/w-lunge-loop.mp4?v=39ee6efd", "figures/w-quad-loop.mp4?v=70738fff", "figures/w-sideswing-loop.mp4?v=0b144005", "figures/w-skatestance-loop.mp4?v=353efbf1"];
 const BASE = self.registration.scope; // the folder sw.js lives in, e.g. https://example.github.io/meflex/meflex-site/meflex-site/
 // Hardening: cache names carry a tag of this folder, so another copy of MeFlex on the same address keeps its own offline
 // files. Caches from before this change (meflex-offline-<12 hex>) are cleared once.

diff --git a/meflex-site/meflex-site/index.html b/meflex-site/meflex-site/index.html
@@ -13,7 +13,7 @@
 <link rel="icon" type="image/png" sizes="192x192" href="icon-192.png">
 <link rel="manifest" href="manifest.webmanifest">
 <meta name="meflex-sw" content="sw.js">
-<meta name="meflex-version" content="3eb056d1ebda">
+<meta name="meflex-version" content="5315845ee30a">
 <meta name="meflex-voice" content="voice/">
 <title>MeFlex</title>
 <meta name="claude:viewport-fit-sides" content="cover">
@@ -1560,7 +1560,7 @@ Object.entries(KID_STEPS).forEach(([id, steps]) => { const st = STRETCHES.find(s
 const SUPPORTED = ['groinhold', 'ankledf', 'postwall', 'chairfig4', 'chairham', 'seatedtwist', 'necktilt', 'levator', 'chintuck', 'neckturn', 'calf', 'doorway', 'crossbody', 'chestclasp', 'bandchest'];
 STRETCHES.forEach(s => { s.supported = SUPPORTED.includes(s.id); });
 const BY_ID = Object.fromEntries(STRETCHES.map(s => [s.id, s]));
-const PICS = {"ankledf":{"v":"a8f33b0e","loop":"707d28f1"},"anklerock":{"v":"911c5049","loop":"8804cf1b"},"armcircles":{"v":"41b57d91","loop":null},"bandadd":{"v":"7cb4ad47","loop":null},"bandcalf":{"v":"a96d5053","loop":null},"bandchest":{"v":"093ec867","loop":null},"bandcross":{"v":"690bf78d","loop":null},"bandham":{"v":"cc7fd8df","loop":null},"bandlat":{"v":"af0c8982","loop":null},"bandquad":{"v":"407bae69","loop":null},"butterfly":{"v":"62cdc0e5","loop":null},"buttkicks":{"v":"a66d1809","loop":"165dfc48"},"calf":{"v":"0a14d5c0","loop":null},"calfdrop":{"v":"97c87646","loop":null},"catcow":{"v":"0cbc84a2","loop":null},"chairfig4":{"v":"3156b617","loop":null},"chairham":{"v":"79f2fa67","loop":null},"chestclasp":{"v":"1909fb8b","loop":null},"child":{"v":"e30eb409","loop":null},"chintuck":{"v":"a55b103f","loop":null},"cobra":{"v":"3b105fed","loop":null},"cossack":{"v":"6175a924","loop":null},"couch":{"v":"a2b1502e","loop":null},"crossbody":{"v":"5f496ae8","loop":null},"dbfly":{"v":"10563170","loop":null},"doorway":{"v":"d289783c","loop":null},"downdog":{"v":"3109fa5a","loop":null},"figure4":{"v":"75c67c42","loop":null},"fold":{"v":"9a4d92d0","loop":null},"frog":{"v":"d23de5f0","loop":null},"gate":{"v":"face0345","loop":null},"goblet":{"v":"47dedac9","loop":null},"groinhold":{"v":"619f54f8","loop":"7c9904ea"},"halfsplit":{"v":"f27b0572","loop":null},"happybaby":{"v":"d1ab1006","loop":null},"highknees":{"v":"dab2adce","loop":"8e58819a"},"hiplunge":{"v":"2f89a04e","loop":"3236b681"},"inchworm":{"v":"74f7527c","loop":null},"kneeschest":{"v":"b5d6dc38","loop":null},"lateral":{"v":"25f04159","loop":"4dd7ccbd"},"legswing":{"v":"d141c625","loop":null},"levator":{"v":"8760091f","loop":null},"lizard":{"v":"0a4f97bd","loop":null},"lunge":{"v":"25293428","loop":"5fb29044"},"lyingham":{"v":"1cb729bc","loop":null},"necktilt":{"v":"6dc8f687","loop":null},"neckturn":{"v":"50a8b26d","loop":null},"passthrough":{"v":"ed8b9ed1","loop":null},"pigeon":{"v":"5b82af3b","loop":null},"postwall":{"v":"fb964c95","loop":null},"pullover":{"v":"e8820e95","loop":null},"puppy":{"v":"8e5dd34e","loop":null},"quad":{"v":"6250f0f8","loop":"55eefc3f"},"rdlhold":{"v":"147b3bbf","loop":null},"seatedtwist":{"v":"c94f4c98","loop":null},"sidebend":{"v":"610313c9","loop":null},"sidequad":{"v":"c3d587b5","loop":null},"sideswing":{"v":"1ba9e48b","loop":"539e2238"},"skatestance":{"v":"3e680fa9","loop":"0d598b18"},"sphinx":{"v":"8349a4d2","loop":null},"standfold":{"v":"d3455a11","loop":null},"suitcase":{"v":"faeb34cb","loop":null},"thread":{"v":"04dc8a99","loop":null},"torsotwist":{"v":"81bb2d2f","loop":null},"twist":{"v":"183f0d8f","loop":null},"w-ankledf":{"v":"f0af4e86","loop":"964d3d50"},"w-anklerock":{"v":"bec78cbe","loop":"f6f48938"},"w-armcircles":{"v":"20e1b17d","loop":null},"w-bandadd":{"v":"37af3562","loop":null},"w-bandcalf":{"v":"a7ca095b","loop":null},"w-bandchest":{"v":"b4c47cae","loop":null},"w-bandcross":{"v":"0378abb0","loop":null},"w-bandham":{"v":"69ea0463","loop":null},"w-bandlat":{"v":"32398a04","loop":null},"w-bandquad":{"v":"55222718","loop":null},"w-butterfly":{"v":"3771c93c","loop":null},"w-buttkicks":{"v":"002ca8e3","loop":"8114c715"},"w-calf":{"v":"bf30e4cb","loop":null},"w-calfdrop":{"v":"f9c8a021","loop":null},"w-catcow":{"v":"0d9bf87a","loop":null},"w-chairfig4":{"v":"e9703627","loop":null},"w-chairham":{"v":"600c5e2c","loop":null},"w-chestclasp":{"v":"4af09d9a","loop":null},"w-child":{"v":"855e0673","loop":null},"w-chintuck":{"v":"8f234c93","loop":null},"w-cobra":{"v":"7be58832","loop":null},"w-cossack":{"v":"beada11e","loop":null},"w-couch":{"v":"6c2f0b9c","loop":null},"w-crossbody":{"v":"d6de1afc","loop":null},"w-dbfly":{"v":"ac888e12","loop":null},"w-doorway":{"v":"99234351","loop":null},"w-downdog":{"v":"1d1f8be1","loop":null},"w-figure4":{"v":"afebc674","loop":null},"w-fold":{"v":"656f481f","loop":null},"w-frog":{"v":"f451a50e","loop":null},"w-gate":{"v":"549ddd89","loop":null},"w-goblet":{"v":"537b4583","loop":null},"w-groinhold":{"v":"cb01b3b1","loop":null},"w-halfsplit":{"v":"20662c61","loop":null},"w-happybaby":{"v":"0658ab32","loop":null},"w-highknees":{"v":"bdc00bbb","loop":"5914af7b"},"w-hiplunge":{"v":"c917d115","loop":null},"w-inchworm":{"v":"577c28df","loop":null},"w-kneeschest":{"v":"743a6dfa","loop":null},"w-lateral":{"v":"3cb2a7d3","loop":null},"w-legswing":{"v":"2467a979","loop":null},"w-levator":{"v":"d166c57a","loop":null},"w-lizard":{"v":"7cc08ab2","loop":null},"w-lunge":{"v":"63866dc2","loop":"39ee6efd"},"w-lyingham":{"v":"fe759cfe","loop":null},"w-necktilt":{"v":"22924b2f","loop":null},"w-neckturn":{"v":"5af43185","loop":null},"w-passthrough":{"v":"10bfce31","loop":null},"w-pigeon":{"v":"a89b8f65","loop":null},"w-postwall":{"v":"b8e7a79c","loop":null},"w-pullover":{"v":"15239280","loop":null},"w-puppy":{"v":"058ca523","loop":null},"w-quad":{"v":"1b58687d","loop":"70738fff"},"w-rdlhold":{"v":"06b1b1c0","loop":null},"w-seatedtwist":{"v":"09e1504d","loop":null},"w-sidebend":{"v":"6f735ad6","loop":null},"w-sidequad":{"v":"5a2dfb1a","loop":null},"w-sideswing":{"v":"484561d0","loop":"0b144005"},"w-skatestance":{"v":"82716257","loop":"353efbf1"},"w-sphinx":{"v":"4fdcb7fe","loop":null},"w-standfold":{"v":"b34553d0","loop":null},"w-suitcase":{"v":"45e68e4c","loop":null},"w-thread":{"v":"d2486033","loop":null},"w-torsotwist":{"v":"71170482","loop":null},"w-twist":{"v":"f2c23353","loop":null},"w-walklunge":{"v":"7d9e101b","loop":null},"walklunge":{"v":"58b611e7","loop":null}};
+const PICS = {"ankledf":{"v":"a8f33b0e","loop":"707d28f1"},"anklerock":{"v":"911c5049","loop":"8804cf1b"},"armcircles":{"v":"41b57d91","loop":null},"bandadd":{"v":"7cb4ad47","loop":null},"bandcalf":{"v":"a96d5053","loop":null},"bandchest":{"v":"093ec867","loop":null},"bandcross":{"v":"690bf78d","loop":null},"bandham":{"v":"cc7fd8df","loop":null},"bandlat":{"v":"af0c8982","loop":null},"bandquad":{"v":"407bae69","loop":null},"butterfly":{"v":"62cdc0e5","loop":null},"buttkicks":{"v":"a66d1809","loop":"165dfc48"},"calf":{"v":"58c3f519","loop":null},"calfdrop":{"v":"97c87646","loop":null},"catcow":{"v":"0cbc84a2","loop":null},"chairfig4":{"v":"3156b617","loop":null},"chairham":{"v":"79f2fa67","loop":null},"chestclasp":{"v":"1909fb8b","loop":null},"child":{"v":"1ab33262","loop":null},"chintuck":{"v":"a55b103f","loop":null},"cobra":{"v":"3b105fed","loop":null},"cossack":{"v":"6175a924","loop":null},"couch":{"v":"a2b1502e","loop":null},"crossbody":{"v":"ed70a094","loop":null},"dbfly":{"v":"10563170","loop":null},"doorway":{"v":"d289783c","loop":null},"downdog":{"v":"3109fa5a","loop":null},"figure4":{"v":"e51052dc","loop":null},"fold":{"v":"d67a61f0","loop":null},"frog":{"v":"d23de5f0","loop":null},"gate":{"v":"face0345","loop":null},"goblet":{"v":"47dedac9","loop":null},"groinhold":{"v":"619f54f8","loop":"7c9904ea"},"halfsplit":{"v":"f27b0572","loop":null},"happybaby":{"v":"d1ab1006","loop":null},"highknees":{"v":"dab2adce","loop":"8e58819a"},"hiplunge":{"v":"2f89a04e","loop":"3236b681"},"inchworm":{"v":"74f7527c","loop":null},"kneeschest":{"v":"7e37394b","loop":null},"lateral":{"v":"25f04159","loop":"4dd7ccbd"},"legswing":{"v":"d141c625","loop":null},"levator":{"v":"8760091f","loop":null},"lizard":{"v":"0a4f97bd","loop":null},"lunge":{"v":"25293428","loop":"5fb29044"},"lyingham":{"v":"3e88dad7","loop":null},"necktilt":{"v":"6dc8f687","loop":null},"neckturn":{"v":"50a8b26d","loop":null},"passthrough":{"v":"ed8b9ed1","loop":null},"pigeon":{"v":"5b82af3b","loop":null},"postwall":{"v":"fb964c95","loop":null},"pullover":{"v":"e8820e95","loop":null},"puppy":{"v":"8e5dd34e","loop":null},"quad":{"v":"6250f0f8","loop":"55eefc3f"},"rdlhold":{"v":"147b3bbf","loop":null},"seatedtwist":{"v":"d9399c61","loop":null},"sidebend":{"v":"610313c9","loop":null},"sidequad":{"v":"c3d587b5","loop":null},"sideswing":{"v":"1ba9e48b","loop":"539e2238"},"skatestance":{"v":"3e680fa9","loop":"0d598b18"},"sphinx":{"v":"8349a4d2","loop":null},"standfold":{"v":"72a94018","loop":null},"suitcase":{"v":"faeb34cb","loop":null},"thread":{"v":"04dc8a99","loop":null},"torsotwist":{"v":"81bb2d2f","loop":null},"twist":{"v":"fd769304","loop":null},"w-ankledf":{"v":"f0af4e86","loop":"964d3d50"},"w-anklerock":{"v":"bec78cbe","loop":"f6f48938"},"w-armcircles":{"v":"20e1b17d","loop":null},"w-bandadd":{"v":"37af3562","loop":null},"w-bandcalf":{"v":"a7ca095b","loop":null},"w-bandchest":{"v":"b4c47cae","loop":null},"w-bandcross":{"v":"0378abb0","loop":null},"w-bandham":{"v":"69ea0463","loop":null},"w-bandlat":{"v":"32398a04","loop":null},"w-bandquad":{"v":"55222718","loop":null},"w-butterfly":{"v":"3771c93c","loop":null},"w-buttkicks":{"v":"002ca8e3","loop":"8114c715"},"w-calf":{"v":"bf30e4cb","loop":null},"w-calfdrop":{"v":"f9c8a021","loop":null},"w-catcow":{"v":"0d9bf87a","loop":null},"w-chairfig4":{"v":"e9703627","loop":null},"w-chairham":{"v":"600c5e2c","loop":null},"w-chestclasp":{"v":"4af09d9a","loop":null},"w-child":{"v":"855e0673","loop":null},"w-chintuck":{"v":"8f234c93","loop":null},"w-cobra":{"v":"7be58832","loop":null},"w-cossack":{"v":"beada11e","loop":null},"w-couch":{"v":"6c2f0b9c","loop":null},"w-crossbody":{"v":"d6de1afc","loop":null},"w-dbfly":{"v":"ac888e12","loop":null},"w-doorway":{"v":"99234351","loop":null},"w-downdog":{"v":"1d1f8be1","loop":null},"w-figure4":{"v":"afebc674","loop":null},"w-fold":{"v":"656f481f","loop":null},"w-frog":{"v":"f451a50e","loop":null},"w-gate":{"v":"549ddd89","loop":null},"w-goblet":{"v":"537b4583","loop":null},"w-groinhold":{"v":"cb01b3b1","loop":null},"w-halfsplit":{"v":"20662c61","loop":null},"w-happybaby":{"v":"0658ab32","loop":null},"w-highknees":{"v":"bdc00bbb","loop":"5914af7b"},"w-hiplunge":{"v":"c917d115","loop":null},"w-inchworm":{"v":"577c28df","loop":null},"w-kneeschest":{"v":"743a6dfa","loop":null},"w-lateral":{"v":"3cb2a7d3","loop":null},"w-legswing":{"v":"2467a979","loop":null},"w-levator":{"v":"d166c57a","loop":null},"w-lizard":{"v":"7cc08ab2","loop":null},"w-lunge":{"v":"63866dc2","loop":"39ee6efd"},"w-lyingham":{"v":"fe759cfe","loop":null},"w-necktilt":{"v":"22924b2f","loop":null},"w-neckturn":{"v":"5af43185","loop":null},"w-passthrough":{"v":"10bfce31","loop":null},"w-pigeon":{"v":"a89b8f65","loop":null},"w-postwall":{"v":"b8e7a79c","loop":null},"w-pullover":{"v":"15239280","loop":null},"w-puppy":{"v":"058ca523","loop":null},"w-quad":{"v":"1b58687d","loop":"70738fff"},"w-rdlhold":{"v":"06b1b1c0","loop":null},"w-seatedtwist":{"v":"09e1504d","loop":null},"w-sidebend":{"v":"6f735ad6","loop":null},"w-sidequad":{"v":"5a2dfb1a","loop":null},"w-sideswing":{"v":"484561d0","loop":"0b144005"},"w-skatestance":{"v":"82716257","loop":"353efbf1"},"w-sphinx":{"v":"4fdcb7fe","loop":null},"w-standfold":{"v":"b34553d0","loop":null},"w-suitcase":{"v":"45e68e4c","loop":null},"w-thread":{"v":"d2486033","loop":null},"w-torsotwist":{"v":"71170482","loop":null},"w-twist":{"v":"f2c23353","loop":null},"w-walklunge":{"v":"7d9e101b","loop":null},"walklunge":{"v":"58b611e7","loop":null}};
 const PIC_W = [192, 640, 960];
 let PIC_BASE = 'figures/';
 
